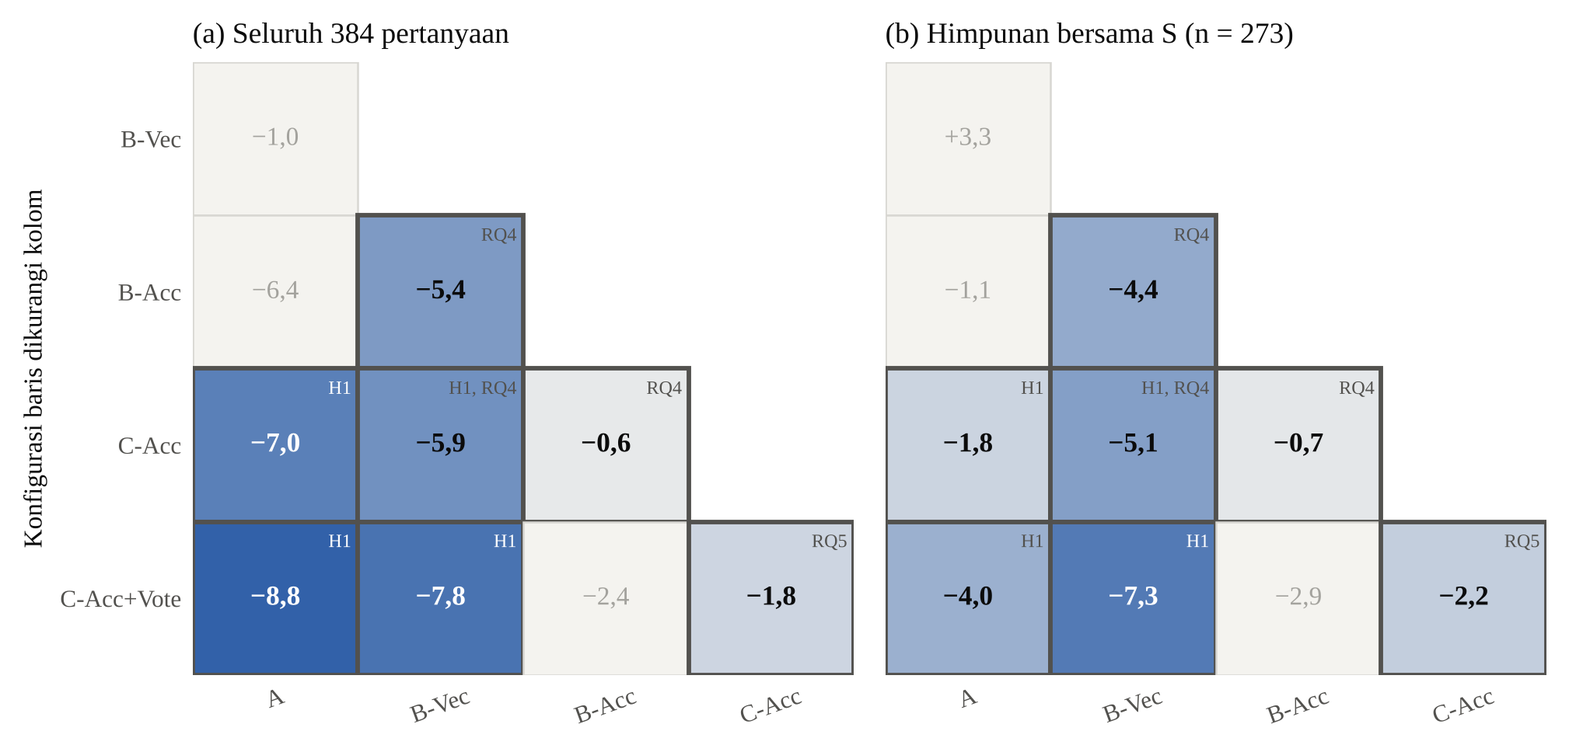
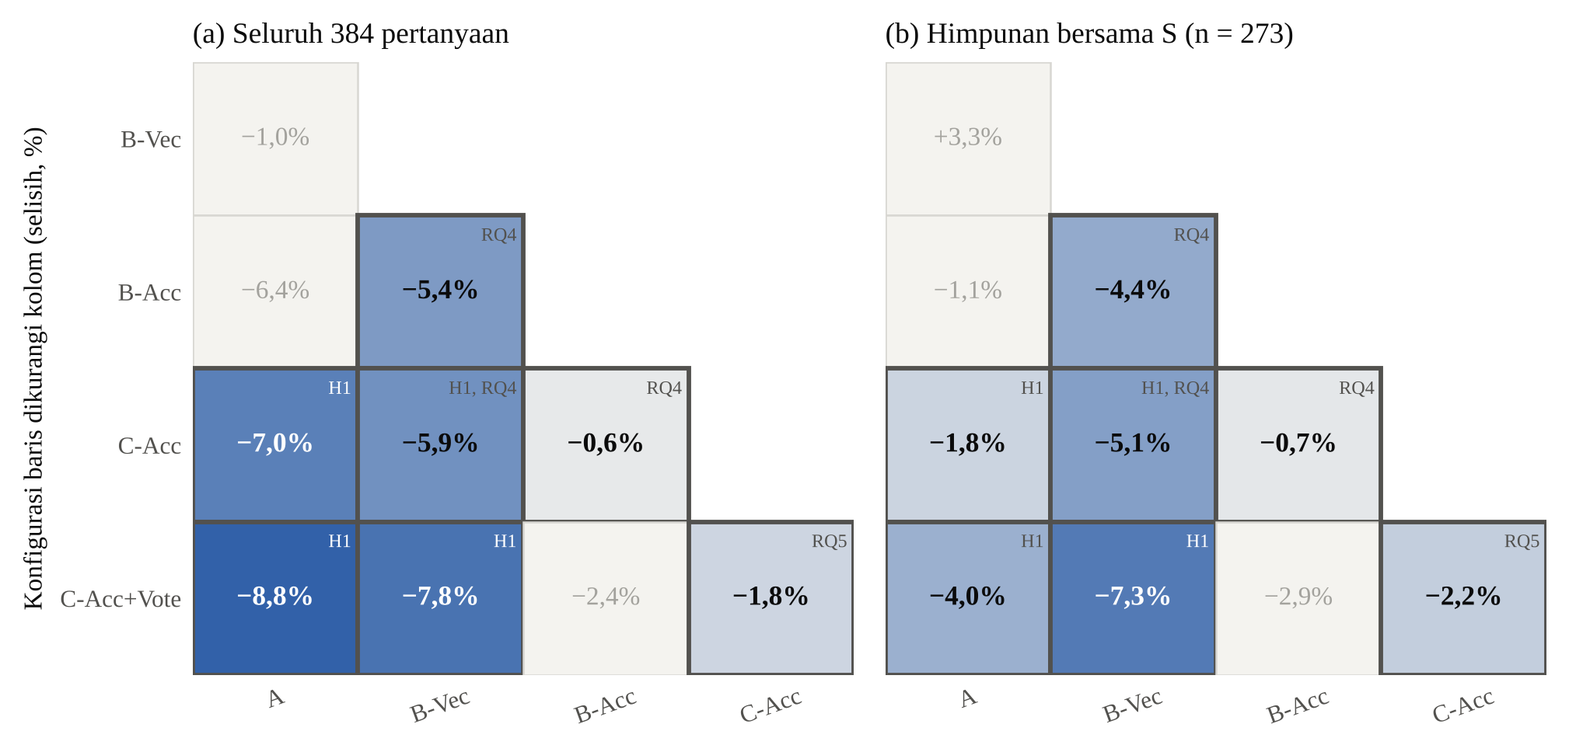
update point to persentage

diff --git a/Bab V - Evaluasi.tex b/Bab V - Evaluasi.tex
@@ -18,7 +18,7 @@ Bab ini menyajikan evaluasi terhadap 384 pertanyaan uji berdasarkan rancangan pa
    \item Ancaman terhadap validitas dan ringkasan.
 \end{enumerate}
 
-Hasil penilaian menggunakan keputusan mayoritas dari tiga \emph{judge}. Lima konfigurasi yang dibandingkan adalah A, B-Vec, B-Acc, C-Acc, dan C-Acc+Vote (Tabel~\ref{tab:daftar-run}). Selisih antarpersentase dinyatakan dalam poin persentase.
+Hasil penilaian menggunakan keputusan mayoritas dari tiga \emph{judge}. Lima konfigurasi yang dibandingkan adalah A, B-Vec, B-Acc, C-Acc, dan C-Acc+Vote (Tabel~\ref{tab:daftar-run}). Selisih antarpersentase dinyatakan dalam persen (\%), yaitu persentase pertama dikurangi persentase kedua.
 
 %============================================================
 \section{Hasil Pelaksanaan dan Verifikasi Kontrol}
@@ -171,9 +171,9 @@ C-Acc+Vote & 3,6 & 29,4 & 32,7 & 17,0 \\
 \end{tabular}
 \end{table}
 
-Untuk B-Acc, C-Acc, dan C-Acc+Vote, ketiga \emph{judge} searah dengan label panel: ketiganya menilai konfigurasi tersebut lebih rendah daripada B-Vec. Selisih terhadap B-Vec berkisar $-1{,}7$ sampai $-2{,}3$ poin pada Llama, $-6{,}9$ sampai $-9{,}2$ poin pada DeepSeek, dan $-2{,}9$ sampai $-5{,}1$ poin pada Qwen. Pengecualian ada pada A. Panel, Llama, dan Qwen menilai A lebih tinggi daripada B-Vec ($+1{,}0$; $+0{,}7$; $+1{,}5$), sedangkan DeepSeek menilai A lebih rendah ($-2{,}4$). Jadi arah A terhadap B-Vec tidak konsisten antar-\emph{judge}.
+Untuk B-Acc, C-Acc, dan C-Acc+Vote, ketiga \emph{judge} searah dengan label panel: ketiganya menilai konfigurasi tersebut lebih rendah daripada B-Vec. Selisih terhadap B-Vec berkisar $-1{,}7$ sampai $-2{,}3$\% pada Llama, $-6{,}9$ sampai $-9{,}2$\% pada DeepSeek, dan $-2{,}9$ sampai $-5{,}1$\% pada Qwen. Pengecualian ada pada A. Panel, Llama, dan Qwen menilai A lebih tinggi daripada B-Vec ($+1{,}0$; $+0{,}7$; $+1{,}5$), sedangkan DeepSeek menilai A lebih rendah ($-2{,}4$). Jadi arah A terhadap B-Vec tidak konsisten antar-\emph{judge}.
 
-Tingkat kelonggaran ketiga \emph{judge} sangat berbeda. Llama memberi \emph{hallucination rate} 3,0--6,0\%, sedangkan DeepSeek dan Qwen 29,4--38,6\%, sehingga label panel praktis ditentukan oleh kesepakatan DeepSeek dan Qwen. Kesepakatan arah juga tidak berlaku pada dua perbandingan antar-konfigurasi berbobot. Untuk C-Acc terhadap B-Acc, DeepSeek menilai $+1{,}7$ poin, Llama $-0{,}6$, dan Qwen $-2{,}1$. Untuk C-Acc+Vote terhadap C-Acc, Llama menilai $+0{,}6$ poin, Qwen $+2{,}0$, dan DeepSeek $-2{,}3$. Tidak ada validasi anotator manusia, sehingga angka yang dilaporkan adalah keluaran panel.
+Tingkat kelonggaran ketiga \emph{judge} sangat berbeda. Llama memberi \emph{hallucination rate} 3,0--6,0\%, sedangkan DeepSeek dan Qwen 29,4--38,6\%, sehingga label panel praktis ditentukan oleh kesepakatan DeepSeek dan Qwen. Kesepakatan arah juga tidak berlaku pada dua perbandingan antar-konfigurasi berbobot. Untuk C-Acc terhadap B-Acc, DeepSeek menilai $+1{,}7$\%, Llama $-0{,}6$, dan Qwen $-2{,}1$. Untuk C-Acc+Vote terhadap C-Acc, Llama menilai $+0{,}6$\%, Qwen $+2{,}0$, dan DeepSeek $-2{,}3$. Tidak ada validasi anotator manusia, sehingga angka yang dilaporkan adalah keluaran panel.
 
 \subsection{Himpunan Pertanyaan Bersama}
 \label{subsec:hasil-himpunan-s}
@@ -198,7 +198,7 @@ Tabel~\ref{tab:rq-selisih} merangkum perbandingan yang dirancang pada Tabel~\ref
 \begin{table}[!htbp]
 \centering
 \footnotesize
-\caption{Selisih \emph{hallucination rate} versi (a) antarkonfigurasi (poin persentase).}
+\caption{Selisih \emph{hallucination rate} versi (a) antarkonfigurasi (selisih, \%).}
 \label{tab:rq-selisih}
 \renewcommand{\arraystretch}{1.2}
 \begin{tabularx}{\textwidth}{|l|>{\raggedright\arraybackslash}X|>{\centering\arraybackslash}p{3.0cm}|>{\centering\arraybackslash}p{3.0cm}|}
@@ -227,16 +227,16 @@ RQ5 & C-Acc+Vote terhadap C-Acc & $-1{,}8$ & $-2{,}2$ \\
 \begin{figure}[!htbp]
 \centering
 \includegraphics[width=0.98\textwidth]{images/bab5_selisih_bvec.png}
-\caption{Matriks selisih \emph{hallucination rate} versi (a) antarkonfigurasi (poin persentase): (a) seluruh 384 pertanyaan, (b) himpunan bersama $\mathcal{S}$.}
+\caption{Matriks selisih \emph{hallucination rate} versi (a) antarkonfigurasi (selisih, \%): (a) seluruh 384 pertanyaan, (b) himpunan bersama $\mathcal{S}$.}
 
 \label{fig:selisih-bvec}
 \end{figure}
 
 \paragraph{H1 (RQ3).} Hipotesis H1 menyatakan bahwa kedua konfigurasi C menghasilkan \emph{hallucination rate} lebih rendah daripada A dan B-Vec. Pada seluruh 384 pertanyaan, keempat selisih negatif: $-7{,}0$ dan $-8{,}8$ terhadap A, serta $-5{,}9$ dan $-7{,}8$ terhadap B-Vec. Pada $\mathcal{S}$, keempat selisih tetap negatif, tetapi terhadap A mengecil menjadi $-1{,}8$ dan $-4{,}0$, sedangkan terhadap B-Vec $-5{,}1$ dan $-7{,}3$. Pada versi (b), kedua konfigurasi C lebih tinggi daripada A (32,6\% dan 31,2\% terhadap 25,8\%, selisih $+6{,}8$ dan $+5{,}5$), dan lebih rendah daripada B-Vec ($-7{,}3$ dan $-8{,}6$). Jadi arah H1 terpenuhi terhadap B-Vec pada kedua versi, dan terhadap A hanya pada versi (a). Terhadap A, hasilnya bergantung pada perlakuan \texttt{ABSTAIN}.
 
-\paragraph{RQ4.} Pembobotan \emph{accepted answer} pada pemeringkatan ulang vektor (B-Acc terhadap B-Vec) menurunkan \emph{hallucination rate} 5,4 poin (4,4 poin pada $\mathcal{S}$). Menambahkan mekanisme berbasis graf di atas pembobotan itu (C-Acc terhadap B-Acc) menurunkannya hanya 0,6 poin. Selisih total C-Acc terhadap B-Vec ($-5{,}9$) hampir seluruhnya sudah dicapai B-Acc. Dengan demikian, sebagian besar penurunan yang teramati sudah muncul pada B-Acc.  Selisih C-Acc terhadap B-Acc mencerminkan seluruh mekanisme berbasis graf, yaitu penelusuran graf, \emph{semantic expansion}, dan \emph{pool} kandidat yang lebih luas (Subbab~\ref{subsec:batasan-implementasi}).
+\paragraph{RQ4.} Pembobotan \emph{accepted answer} pada pemeringkatan ulang vektor (B-Acc terhadap B-Vec) menurunkan \emph{hallucination rate} 5,4\% (4,4\% pada $\mathcal{S}$). Menambahkan mekanisme berbasis graf di atas pembobotan itu (C-Acc terhadap B-Acc) menurunkannya hanya 0,6\%. Selisih total C-Acc terhadap B-Vec ($-5{,}9$) hampir seluruhnya sudah dicapai B-Acc. Dengan demikian, sebagian besar penurunan yang teramati sudah muncul pada B-Acc.  Selisih C-Acc terhadap B-Acc mencerminkan seluruh mekanisme berbasis graf, yaitu penelusuran graf, \emph{semantic expansion}, dan \emph{pool} kandidat yang lebih luas (Subbab~\ref{subsec:batasan-implementasi}).
 
-\paragraph{RQ5 (eksploratif).} Pada label panel, C-Acc+Vote (17,0\%) lebih rendah daripada C-Acc (18,8\%) sebesar 1,8 poin, dan pada $\mathcal{S}$ sebesar 2,2 poin. 
+\paragraph{RQ5 (eksploratif).} Pada label panel, C-Acc+Vote (17,0\%) lebih rendah daripada C-Acc (18,8\%) sebesar 1,8\%, dan pada $\mathcal{S}$ sebesar 2,2\%. 
 
 %============================================================
 \section{Hasil Metrik Pendukung}
@@ -255,9 +255,9 @@ Metrik pendukung terdiri atas evaluasi \emph{faithfulness}, \emph{citation suppo
 \subsection{\emph{Faithfulness} dan \emph{Citation Support}}
 \label{subsec:hasil-grounding}
 
-\emph{Faithfulness} adalah proporsi klaim jawaban yang didukung konteks. Nilainya 61,3\% pada B-Vec, 59,5\% pada B-Acc, 57,8\% pada C-Acc, dan 57,2\% pada C-Acc+Vote. Nilainya turun mengikuti urutan tersebut. Konfigurasi berbobot lebih rendah daripada B-Vec sebesar 1,8 sampai 4,1 poin. Kedua metrik dibaca dari klaim yang dikeluarkan \emph{prompt} halusinasi (Lampiran~\ref{lamp:prompt-judge}).
+\emph{Faithfulness} adalah proporsi klaim jawaban yang didukung konteks. Nilainya 61,3\% pada B-Vec, 59,5\% pada B-Acc, 57,8\% pada C-Acc, dan 57,2\% pada C-Acc+Vote. Nilainya turun mengikuti urutan tersebut. Konfigurasi berbobot lebih rendah daripada B-Vec sebesar 1,8 sampai 4,1\%. Kedua metrik dibaca dari klaim yang dikeluarkan \emph{prompt} halusinasi (Lampiran~\ref{lamp:prompt-judge}).
 
-\emph{Citation support} adalah proporsi klaim berkutipan yang didukung item konteks yang dikutip. Nilainya 90,2\% (B-Vec), 91,7\% (B-Acc), 90,9\% (C-Acc), dan 89,6\% (C-Acc+Vote). Selisih antarkonfigurasi paling besar 2,1 poin.
+\emph{Citation support} adalah proporsi klaim berkutipan yang didukung item konteks yang dikutip. Nilainya 90,2\% (B-Vec), 91,7\% (B-Acc), 90,9\% (C-Acc), dan 89,6\% (C-Acc+Vote). Selisih antarkonfigurasi paling besar 2,1\%.
 
 Penurunan \emph{faithfulness} menunjukkan bahwa proporsi klaim yang didukung konteks lebih kecil pada konfigurasi berbobot. Relevansi konteks juga lebih rendah (Subbab~\ref{subsec:hasil-retrieval}). Klaim yang tidak didukung konteks tidak selalu salah secara faktual, karena halusinasi ditentukan dari label \texttt{CONTRADICTED} atau \texttt{FABRICATED}. Sementara itu, \emph{citation support} tetap sekitar 90\% karena metrik tersebut hanya menilai dukungan terhadap klaim yang menyertakan kutipan.
 \subsection{\emph{Valid Citation Rate} (NF2)}
@@ -285,7 +285,7 @@ C-Acc+Vote & 75,3\% (289) & 318 & 55 & 82,7\% (263) & 610 & 4 & 0,9934 \\
 
 Di antara jawaban yang bukan \texttt{ABSTAIN}, kutipan valid ditemukan pada 83,7\% jawaban B-Vec, 82,8\% B-Acc, 81,2\% C-Acc, dan 82,7\% C-Acc+Vote. Karena target NF2 adalah 100\%, kedua konfigurasi C belum memenuhi kriteria ini. Seluruh kegagalan pada kelompok tersebut terjadi karena jawaban tidak mencantumkan kutipan, bukan karena menggunakan identitas sumber yang salah.
 
-Pada seluruh 384 jawaban, \emph{valid citation rate} tertinggi pada C-Acc+Vote (75,3\%) dan 4,9 poin di atas C-Acc (70,3\%). Selisih antara ukuran ini dan ukuran pada jawaban bukan \texttt{ABSTAIN} berasal dari jawaban \texttt{ABSTAIN} yang tetap memuat kutipan valid, yaitu 21 (B-Vec), 16 (B-Acc), 11 (C-Acc), dan 26 (C-Acc+Vote) jawaban (diturunkan dari selisih kedua ukuran). Jadi keunggulan C-Acc+Vote pada seluruh jawaban sebagian besar berasal dari jawaban \texttt{ABSTAIN} yang berkutipan, sedangkan pada jawaban bukan \texttt{ABSTAIN} selisihnya hanya 1,5 poin terhadap C-Acc.
+Pada seluruh 384 jawaban, \emph{valid citation rate} tertinggi pada C-Acc+Vote (75,3\%) dan 4,9\% di atas C-Acc (70,3\%). Selisih antara ukuran ini dan ukuran pada jawaban bukan \texttt{ABSTAIN} berasal dari jawaban \texttt{ABSTAIN} yang tetap memuat kutipan valid, yaitu 21 (B-Vec), 16 (B-Acc), 11 (C-Acc), dan 26 (C-Acc+Vote) jawaban (diturunkan dari selisih kedua ukuran). Jadi keunggulan C-Acc+Vote pada seluruh jawaban sebagian besar berasal dari jawaban \texttt{ABSTAIN} yang berkutipan, sedangkan pada jawaban bukan \texttt{ABSTAIN} selisihnya hanya 1,5\% terhadap C-Acc.
 
 Seluruh kegagalan NF2 berupa jawaban tanpa kutipan, bukan kutipan yang keliru, sehingga hasil ini menunjukkan masalah kepatuhan terhadap instruksi kutipan, tanpa menyingkirkan kemungkinan pengaruh mutu konteks. Pada jawaban yang bukan \texttt{ABSTAIN}, C-Acc paling rendah (81,2\%). Hal ini sejalan dengan relevansi konteks dan \emph{faithfulness} C-Acc yang juga lebih rendah (Subbab~\ref{subsec:hasil-grounding} dan \ref{subsec:hasil-retrieval}). Apabila konteks kurang relevan, \emph{generator} cenderung menjawab dari pengetahuannya sendiri tanpa menyertakan penanda kutipan. Keunggulan C-Acc+Vote pada seluruh 384 jawaban terutama berasal dari jawaban \texttt{ABSTAIN} yang tetap memuat kutipan valid (26 terhadap 11 pada C-Acc). Hal ini terjadi karena jawaban \texttt{ABSTAIN} dapat menyebut item konteks untuk menjelaskan mengapa konteks tidak cukup, tetapi isi jawaban tersebut tidak diperiksa.
 
@@ -423,7 +423,7 @@ B-Vec dan B-Acc menggunakan kandidat pencarian vektor yang sama, tetapi B-Acc me
 \subsection{Pengaruh Mekanisme Berbasis Graf}
 \label{subsec:analisis-graf}
 
-Penambahan mekanisme berbasis graf pada C-Acc menghasilkan konteks yang berbeda dari B-Acc pada 269 dari 384 pertanyaan. Namun, \emph{hallucination rate} keduanya hampir sama, yaitu 18,8\% pada C-Acc dan 19,4\% pada B-Acc, dengan selisih hanya 0,6 poin persentase. Berdasarkan Tabel~\ref{tab:profil-retrieval}, sebanyak 95,5\% konteks akhir C-Acc berasal dari pencarian awal atau penelusuran satu \emph{hop}, sedangkan penelusuran dua \emph{hop} dan \emph{semantic expansion} masing-masing hanya menyumbang 2,5\% dan 2,0\%.
+Penambahan mekanisme berbasis graf pada C-Acc menghasilkan konteks yang berbeda dari B-Acc pada 269 dari 384 pertanyaan. Namun, \emph{hallucination rate} keduanya hampir sama, yaitu 18,8\% pada C-Acc dan 19,4\% pada B-Acc, dengan selisih hanya 0,6\%. Berdasarkan Tabel~\ref{tab:profil-retrieval}, sebanyak 95,5\% konteks akhir C-Acc berasal dari pencarian awal atau penelusuran satu \emph{hop}, sedangkan penelusuran dua \emph{hop} dan \emph{semantic expansion} masing-masing hanya menyumbang 2,5\% dan 2,0\%.
 
 Gambar~\ref{fig:kolam-graf} menunjukkan distribusi kandidat hasil penelusuran graf yang digunakan oleh C-Acc dan C-Acc+Vote. Rata-rata terdapat 17,4 kandidat per pertanyaan setelah pembatasan penelusuran. Sebelum pembatasan, rata-rata ditemukan 4,5 kandidat satu \emph{hop} dan 13,2 kandidat dua \emph{hop}. Pembatasan maksimal 50 kandidat dua \emph{hop} mengurangi jumlah kandidat pada 8 pertanyaan dengan mengeluarkan kandidat berbobot sisi terendah.
 
@@ -444,7 +444,7 @@ Hasil evaluasi menunjukkan bahwa manfaat tambahan mekanisme graf terhadap penuru
 \subsection{Pengaruh Skor Suara}
 \label{subsec:analisis-vote}
 
-C-Acc dan C-Acc+Vote memiliki konteks identik pada 240 dari 384 pertanyaan dan kumpulan kandidat identik pada 378 pertanyaan (Subbab~\ref{subsec:profil-retrieval}). Pada konteks yang berbeda, C-Acc+Vote lebih banyak memilih jawaban non-\emph{accepted} dengan rata-rata skor suara 4,90, dibandingkan 2,56 pada item pembanding. \emph{Hallucination rate} C-Acc+Vote lebih rendah 1,8 poin, \emph{faithfulness} dan \emph{citation support} sedikit lebih rendah (57,2\% terhadap 57,8\% dan 89,6\% terhadap 90,9\%), serta \emph{valid citation rate} pada seluruh jawaban lebih tinggi 4,9 poin (pada jawaban bukan \texttt{ABSTAIN}, 1,5 poin; Subbab~\ref{subsec:hasil-nf2}). Selisih \emph{hallucination rate} ini tidak konsisten antar-\emph{judge} (Subbab~\ref{subsec:hasil-per-judge}), sehingga pengaruh skor suara dibaca sebagai temuan eksploratif.
+C-Acc dan C-Acc+Vote memiliki konteks identik pada 240 dari 384 pertanyaan dan kumpulan kandidat identik pada 378 pertanyaan (Subbab~\ref{subsec:profil-retrieval}). Pada konteks yang berbeda, C-Acc+Vote lebih banyak memilih jawaban non-\emph{accepted} dengan rata-rata skor suara 4,90, dibandingkan 2,56 pada item pembanding. \emph{Hallucination rate} C-Acc+Vote lebih rendah 1,8\%, \emph{faithfulness} dan \emph{citation support} sedikit lebih rendah (57,2\% terhadap 57,8\% dan 89,6\% terhadap 90,9\%), serta \emph{valid citation rate} pada seluruh jawaban lebih tinggi 4,9\% (pada jawaban bukan \texttt{ABSTAIN}, 1,5\%; Subbab~\ref{subsec:hasil-nf2}). Selisih \emph{hallucination rate} ini tidak konsisten antar-\emph{judge} (Subbab~\ref{subsec:hasil-per-judge}), sehingga pengaruh skor suara dibaca sebagai temuan eksploratif.
 
 \subsection{Analisis Eksploratif: Join dan Dua \emph{Hop} tanpa \emph{Expansion}}
 \label{subsec:analisis-eksploratif}
@@ -467,7 +467,7 @@ Join & 21,7 & 35,2 & $-3{,}1$ \\
 \end{tabularx}
 \end{table}
 
-Join lebih rendah daripada B-Vec sebesar 3,1 poin, dan 2-hop tanpa \emph{expansion} sebesar 6,8 poin. Arahnya sedikit mendukung penelusuran dua \emph{hop}, dan ditulis sebagai pola, bukan sebagai temuan. Karena jawaban sebagian besar digunakan ulang dari konfigurasi lain, hasil ini lebih lemah daripada lima konfigurasi utama.
+Join lebih rendah daripada B-Vec sebesar 3,1\%, dan 2-hop tanpa \emph{expansion} sebesar 6,8\%. Arahnya sedikit mendukung penelusuran dua \emph{hop}, dan ditulis sebagai pola, bukan sebagai temuan. Karena jawaban sebagian besar digunakan ulang dari konfigurasi lain, hasil ini lebih lemah daripada lima konfigurasi utama.
 
 %============================================================
 \section{Analisis Kasus}
@@ -554,7 +554,7 @@ NF2 & Seluruh jawaban bukan \texttt{ABSTAIN} memuat kutipan valid & C-Acc 81,2\%
 \hline
 NF3 & Rata-rata latensi total $\leq 15$ detik & C-Acc 5,10 detik; C-Acc+Vote 5,93 detik (maksimum 10,33 dan 13,44 detik) & Terpenuhi \\
 \hline
-NF4 & \emph{Citation support} tidak lebih rendah daripada B-Vec & C-Acc 90,9\% dan C-Acc+Vote 89,6\% terhadap B-Vec 90,2\% & C-Acc terpenuhi; C-Acc+Vote lebih rendah 0,6 poin sehingga tidak terpenuhi \\
+NF4 & \emph{Citation support} tidak lebih rendah daripada B-Vec & C-Acc 90,9\% dan C-Acc+Vote 89,6\% terhadap B-Vec 90,2\% & C-Acc terpenuhi; C-Acc+Vote lebih rendah 0,6\% sehingga tidak terpenuhi \\
 \hline
 NF5 & Tidak ada konteks atau kutipan dari \emph{thread} kueri uji & 0 dari 384 pertanyaan pada keempat konfigurasi berkonteks & Terpenuhi \\
 \hline
@@ -570,9 +570,9 @@ Subbab ini mengikuti pemetaan pada Tabel~\ref{tab:pemetaan-perbandingan}. Bab in
 
 \textbf{RQ3 (H1).} Kedua konfigurasi C memiliki \emph{hallucination rate} lebih rendah daripada A dan B-Vec pada versi utama (25,8\% dan 24,8\% menjadi 18,8\% dan 17,0\%). Terhadap B-Vec, arahnya sama pada versi (b). Terhadap A, versi (b) berbalik karena A tidak menolak menjawab. Pada himpunan bersama $\mathcal{S}$, selisih terhadap A mengecil menjadi $-1{,}8$ dan $-4{,}0$.
 
-\textbf{RQ4.} Pembobotan \emph{accepted answer} pada pemeringkatan ulang vektor (B-Acc) menurunkan \emph{hallucination rate} sebesar 5,4 poin dibandingkan B-Vec. Penambahan mekanisme berbasis graf (C-Acc) hanya memberikan penurunan tambahan sebesar 0,6 poin. Hal ini menunjukkan bahwa sebagian besar penurunan halusinasi berkaitan dengan pembobotan penilaian pengguna, sedangkan manfaat tambahan mekanisme graf masih terbatas. Pada implementasi yang diuji, graf terutama menyediakan jawaban \emph{accepted} dari pertanyaan \emph{seed} melalui penelusuran satu \emph{hop}, yang hasilnya dapat direplikasi menggunakan penggabungan tabel (\emph{join}). Dengan demikian, manfaat struktur graf yang lebih kompleks belum terlihat jelas pada penelitian ini.
+\textbf{RQ4.} Pembobotan \emph{accepted answer} pada pemeringkatan ulang vektor (B-Acc) menurunkan \emph{hallucination rate} sebesar 5,4\% dibandingkan B-Vec. Penambahan mekanisme berbasis graf (C-Acc) hanya memberikan penurunan tambahan sebesar 0,6\%. Hal ini menunjukkan bahwa sebagian besar penurunan halusinasi berkaitan dengan pembobotan penilaian pengguna, sedangkan manfaat tambahan mekanisme graf masih terbatas. Pada implementasi yang diuji, graf terutama menyediakan jawaban \emph{accepted} dari pertanyaan \emph{seed} melalui penelusuran satu \emph{hop}, yang hasilnya dapat direplikasi menggunakan penggabungan tabel (\emph{join}). Dengan demikian, manfaat struktur graf yang lebih kompleks belum terlihat jelas pada penelitian ini.
 
-\textbf{RQ5 (eksploratif).} Pada label panel, penambahan skor suara menghasilkan angka lebih rendah (17,0\% terhadap 18,8\%), yaitu selisih 1,8 poin.
+\textbf{RQ5 (eksploratif).} Pada label panel, penambahan skor suara menghasilkan angka lebih rendah (17,0\% terhadap 18,8\%), yaitu selisih 1,8\%.
 
 \subsection{Matriks Ketercapaian Tujuan}
 \label{subsec:matriks-tujuan}
@@ -595,9 +595,9 @@ Tabel~\ref{tab:matriks-tujuan} menautkan tiap tujuan penelitian (Subbab~\ref{sec
 \hline
 3. Selisih HR A, B-Vec, GraphRAG berbobot & RQ3 (H1) & HR versi (a) dan (b) & C-Acc 18,8\% dan C-Acc+Vote 17,0\% terhadap A 25,8\% dan B-Vec 24,8\% & Lebih rendah terhadap B-Vec; terhadap A bergantung pada \texttt{ABSTAIN} \\
 \hline
-4. Kontribusi bobot dan graf & RQ4 & Selisih B-Acc--B-Vec dan C-Acc--B-Acc & $-5{,}4$ dan $-0{,}6$ poin & Bobot berperan; manfaat tambahan graf belum terbukti \\
+4. Kontribusi bobot dan graf & RQ4 & Selisih B-Acc--B-Vec dan C-Acc--B-Acc & $-5{,}4$ dan $-0{,}6$\% & Bobot berperan; manfaat tambahan graf belum terbukti \\
 \hline
-5. Satu sinyal vs dua sinyal & RQ5 (eksploratif) & Selisih C-Acc+Vote--C-Acc, per \emph{judge} & $-1{,}8$ poin pada panel; Llama $+0{,}6$, Qwen $+2{,}0$, DeepSeek $-2{,}3$ & Belum dapat disimpulkan \\
+5. Satu sinyal vs dua sinyal & RQ5 (eksploratif) & Selisih C-Acc+Vote--C-Acc, per \emph{judge} & $-1{,}8$\% pada panel; Llama $+0{,}6$, Qwen $+2{,}0$, DeepSeek $-2{,}3$ & Belum dapat disimpulkan \\
 \hline
 \end{tabularx}
 \end{table}
@@ -647,7 +647,7 @@ Konfigurasi berbobot menurunkan HR versi (a), tetapi \emph{faithfulness} dan rel
 \subsection{Implikasi dan Klaim Kontribusi}
 \label{subsec:pembahasan-implikasi}
 
-Penelitian ini menghasilkan mekanisme pembobotan graf pengetahuan berbasis penilaian pengguna, prosedur evaluasi yang dapat ditelusuri, dan hasil perbandingan lima konfigurasi. Dengan \emph{ABSTAIN} dikeluarkan dari penyebut, \emph{hallucination rate} adalah 25,8\% (A), 24,8\% (B-Vec), 19,4\% (B-Acc), 18,8\% (C-Acc), dan 17,0\% (C-Acc+Vote). B-Acc lebih rendah 5,4 poin daripada B-Vec dan C-Acc lebih rendah 0,6 poin daripada B-Acc. Selisih C-Acc+Vote terhadap C-Acc (1,8 poin) tidak konsisten antar-\emph{judge} sehingga dilaporkan sebagai temuan eksploratif. Seluruh selisih bersifat deskriptif pada sampel dan konfigurasi yang diuji, dan tidak menyimpulkan efektivitas pada domain, \emph{dataset}, atau model generatif lain. Bila \texttt{ABSTAIN} dihitung sebagai kegagalan, hasil terhadap A berbalik arah (Subbab~\ref{sec:hasil-utama}).
+Penelitian ini menghasilkan mekanisme pembobotan graf pengetahuan berbasis penilaian pengguna, prosedur evaluasi yang dapat ditelusuri, dan hasil perbandingan lima konfigurasi. Dengan \emph{ABSTAIN} dikeluarkan dari penyebut, \emph{hallucination rate} adalah 25,8\% (A), 24,8\% (B-Vec), 19,4\% (B-Acc), 18,8\% (C-Acc), dan 17,0\% (C-Acc+Vote). B-Acc lebih rendah 5,4\% daripada B-Vec dan C-Acc lebih rendah 0,6\% daripada B-Acc. Selisih C-Acc+Vote terhadap C-Acc (1,8\%) tidak konsisten antar-\emph{judge} sehingga dilaporkan sebagai temuan eksploratif. Seluruh selisih bersifat deskriptif pada sampel dan konfigurasi yang diuji, dan tidak menyimpulkan efektivitas pada domain, \emph{dataset}, atau model generatif lain. Bila \texttt{ABSTAIN} dihitung sebagai kegagalan, hasil terhadap A berbalik arah (Subbab~\ref{sec:hasil-utama}).
 
 Mekanisme yang dihasilkan menyediakan pencatatan \emph{provenance} dan validasi kutipan. Keterlacakan keluaran belum sepenuhnya memenuhi target, karena kebutuhan NF2 (seluruh jawaban bukan \texttt{ABSTAIN} memuat kutipan valid) tidak terpenuhi (kutipan valid hanya 81,2\% pada C-Acc dan 82,7\% pada C-Acc+Vote). Kebutuhan NF4 (\emph{citation support} tidak lebih rendah daripada B-Vec) terpenuhi pada C-Acc tetapi tidak pada C-Acc+Vote. Kebutuhan lain terpenuhi, yaitu NF3 (rata-rata latensi total paling lama 15 detik), NF5 (tidak ada konteks atau kutipan dari \emph{thread} uji), dan NF6 (variabel kontrol identik antarkonfigurasi).
 
@@ -669,4 +669,4 @@ Mekanisme yang dihasilkan menyediakan pencatatan \emph{provenance} dan validasi 
 \label{sec:ringkasan-evaluasi}
 %============================================================
 
-Dengan \texttt{ABSTAIN} dikeluarkan, \emph{hallucination rate} adalah 25,8\% (A), 24,8\% (B-Vec), 19,4\% (B-Acc), 18,8\% (C-Acc), dan 17,0\% (C-Acc+Vote). Kedua konfigurasi C lebih rendah daripada A dan B-Vec. Terhadap A, arah ini berbalik bila \texttt{ABSTAIN} dihitung sebagai kegagalan. Pembobotan \emph{accepted answer} pada pemeringkatan ulang vektor (B-Acc) sudah menurunkan \emph{hallucination rate} 5,4 poin, dan mekanisme berbasis graf menambah hanya 0,6 poin. Pada pengaturan ini, hasil satu \emph{hop} graf dapat direplikasi melalui penggabungan tabel. Penambahan skor suara menurunkan angka 1,8 poin pada label panel, tetapi arahnya tidak konsisten antar-\emph{judge} sehingga RQ5 dibaca sebagai temuan eksploratif. \emph{Faithfulness}, \emph{context relevance}, dan relevansi jawaban (tanpa \texttt{ABSTAIN}) konfigurasi berbobot sedikit lebih rendah daripada B-Vec. NF3, NF5, dan NF6 terpenuhi, NF4 terpenuhi pada C-Acc tetapi tidak pada C-Acc+Vote, dan NF2 tidak terpenuhi pada kedua konfigurasi C (81,2\% dan 82,7\%).
+Dengan \texttt{ABSTAIN} dikeluarkan, \emph{hallucination rate} adalah 25,8\% (A), 24,8\% (B-Vec), 19,4\% (B-Acc), 18,8\% (C-Acc), dan 17,0\% (C-Acc+Vote). Kedua konfigurasi C lebih rendah daripada A dan B-Vec. Terhadap A, arah ini berbalik bila \texttt{ABSTAIN} dihitung sebagai kegagalan. Pembobotan \emph{accepted answer} pada pemeringkatan ulang vektor (B-Acc) sudah menurunkan \emph{hallucination rate} 5,4\%, dan mekanisme berbasis graf menambah hanya 0,6\%. Pada pengaturan ini, hasil satu \emph{hop} graf dapat direplikasi melalui penggabungan tabel. Penambahan skor suara menurunkan angka 1,8\% pada label panel, tetapi arahnya tidak konsisten antar-\emph{judge} sehingga RQ5 dibaca sebagai temuan eksploratif. \emph{Faithfulness}, \emph{context relevance}, dan relevansi jawaban (tanpa \texttt{ABSTAIN}) konfigurasi berbobot sedikit lebih rendah daripada B-Vec. NF3, NF5, dan NF6 terpenuhi, NF4 terpenuhi pada C-Acc tetapi tidak pada C-Acc+Vote, dan NF2 tidak terpenuhi pada kedua konfigurasi C (81,2\% dan 82,7\%).

diff --git a/4 Abstrak.tex b/4 Abstrak.tex
@@ -11,7 +11,7 @@
 \end{center}
 
 \begin{spacing}{1.0}
-\emph{Large Language Model} (LLM) rentan menghasilkan halusinasi, yaitu keluaran yang tampak meyakinkan tetapi tidak sesuai fakta. \emph{Retrieval-Augmented Generation} (RAG) dan \emph{Graph-based RAG} (GraphRAG) mengurangi masalah ini tanpa mengubah parameter model, tetapi keandalan sumber pengetahuan yang diambil umumnya belum dipertimbangkan. Pada pendekatan GraphRAG yang ditelaah, bobot keandalan diturunkan dari asal-usul atau otoritas dokumen, dan belum ditemukan penggunaan penilaian pengguna terhadap suatu pengetahuan sebagai dasar bobot dalam pengambilan konteks. Penelitian ini merancang mekanisme pembobotan graf pengetahuan berbasis penilaian pengguna, yaitu status \emph{accepted answer} dan skor suara, pada GraphRAG menggunakan \emph{Design Science Research Methodology}. Artefaknya adalah graf pengetahuan berbobot dan mekanisme pengambilan konteks tiga tahap yang memakai bobot tersebut. Pengujian dilakukan pada satu studi kasus, yaitu data Stack Overflow, dengan 384 pertanyaan uji, model generatif GPT-4o-mini, dan penilaian halusinasi oleh panel tiga LLM \emph{judge} tanpa validasi anotator manusia. Lima konfigurasi dibandingkan, yaitu LLM murni (A), RAG vektor (B-Vec), RAG vektor dengan bobot \emph{accepted} tanpa graf (B-Acc), GraphRAG dengan bobot \emph{accepted} (C-Acc), dan GraphRAG dengan bobot \emph{accepted} dan skor suara (C-Acc+Vote). Dengan penolakan menjawab dikeluarkan dari penyebut, \emph{hallucination rate} masing-masing adalah 25,8\%; 24,8\%; 19,4\%; 18,8\%; dan 17,0\%. Pembobotan \emph{accepted answer} pada B-Acc, tanpa graf, sudah menurunkan angka 5,4 poin terhadap B-Vec, sedangkan tambahan dari mekanisme berbasis graf hanya 0,6 poin sehingga manfaat graf belum terbukti. Pengaruh skor suara bersifat eksploratif dan belum dapat disimpulkan karena arahnya tidak konsisten antar-\emph{judge}. Konteks berbobot memuat lebih banyak jawaban \emph{accepted}, tetapi relevansi konteks dan \emph{faithfulness} sedikit lebih rendah daripada B-Vec. Terhadap LLM murni, penurunan berbalik bila penolakan menjawab dihitung sebagai kegagalan. Kontribusi penelitian ini adalah (i) mekanisme pembobotan graf pengetahuan berbasis penilaian pengguna beserta implementasinya, (ii) protokol evaluasi yang memisahkan pengaruh pembobotan dari struktur graf, melaporkan penolakan menjawab, dan mencegah kebocoran data uji, serta (iii) bukti empiris bahwa bobot \emph{accepted answer} berperan dalam menurunkan halusinasi. Hasil berlaku pada satu studi kasus, satu \emph{run} per konfigurasi, dan label panel \emph{judge} yang sangat berbeda tingkat kelonggarannya, sehingga selisih bersifat deskriptif dan tidak digeneralisasi.
+\emph{Large Language Model} (LLM) rentan menghasilkan halusinasi. \emph{Retrieval-Augmented Generation} (RAG) dan \emph{Graph-based RAG} (GraphRAG) mengurangi masalah ini, tetapi keandalan sumber yang diambil umumnya belum dipertimbangkan, dan belum ditemukan penggunaan penilaian pengguna sebagai dasar bobot dalam pengambilan konteks. Penelitian ini merancang mekanisme pembobotan graf pengetahuan berbasis penilaian pengguna, yaitu status \emph{accepted answer} dan skor suara, pada GraphRAG dengan \emph{Design Science Research Methodology}. Artefaknya adalah graf pengetahuan berbobot dan mekanisme pengambilan konteks tiga tahap. Pengujian memakai data Stack Overflow sebagai satu studi kasus, 384 pertanyaan uji, model GPT-4o-mini, dan panel tiga LLM \emph{judge} tanpa validasi manusia. Lima konfigurasi dibandingkan: LLM murni (A), RAG vektor (B-Vec), RAG dengan bobot \emph{accepted} tanpa graf (B-Acc), GraphRAG dengan bobot \emph{accepted} (C-Acc), dan GraphRAG dengan bobot \emph{accepted} dan skor suara (C-Acc+Vote). Dengan penolakan menjawab dikeluarkan, \emph{hallucination rate} masing-masing 25,8\%; 24,8\%; 19,4\%; 18,8\%; dan 17,0\%. Pembobotan \emph{accepted answer} tanpa graf sudah menurunkan angka sebesar 5,4\% terhadap B-Vec (dari 24,8\% menjadi 19,4\%), sedangkan tambahan dari graf hanya 0,6\% (dari 19,4\% menjadi 18,8\%) sehingga manfaat graf belum terbukti. Pengaruh skor suara belum dapat disimpulkan karena arahnya tidak konsisten antar-\emph{judge}. Relevansi konteks dan \emph{faithfulness} konfigurasi berbobot sedikit lebih rendah daripada B-Vec, dan terhadap LLM murni penurunan berbalik bila penolakan menjawab dihitung sebagai kegagalan. Kontribusi penelitian ini adalah mekanisme pembobotan beserta implementasinya, protokol evaluasi yang memisahkan pembobotan dari struktur graf, dan bukti empiris bahwa bobot \emph{accepted answer} berperan menurunkan halusinasi. 
 
 \vspace{0.3cm}
 \noindent Kata kunci: halusinasi LLM, GraphRAG, penilaian pengguna, pembobotan graf pengetahuan, \emph{retrieval-augmented generation}, Stack Overflow
